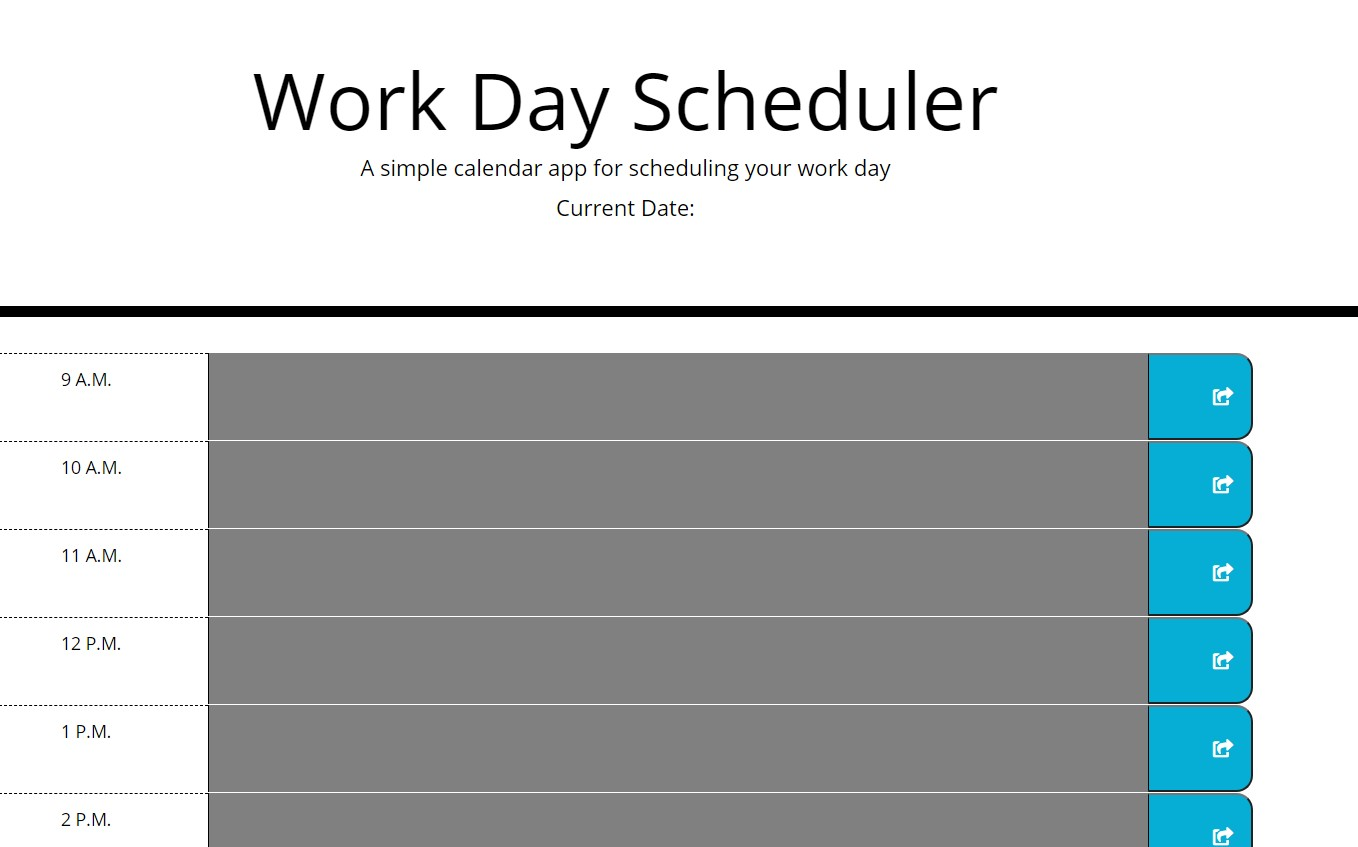
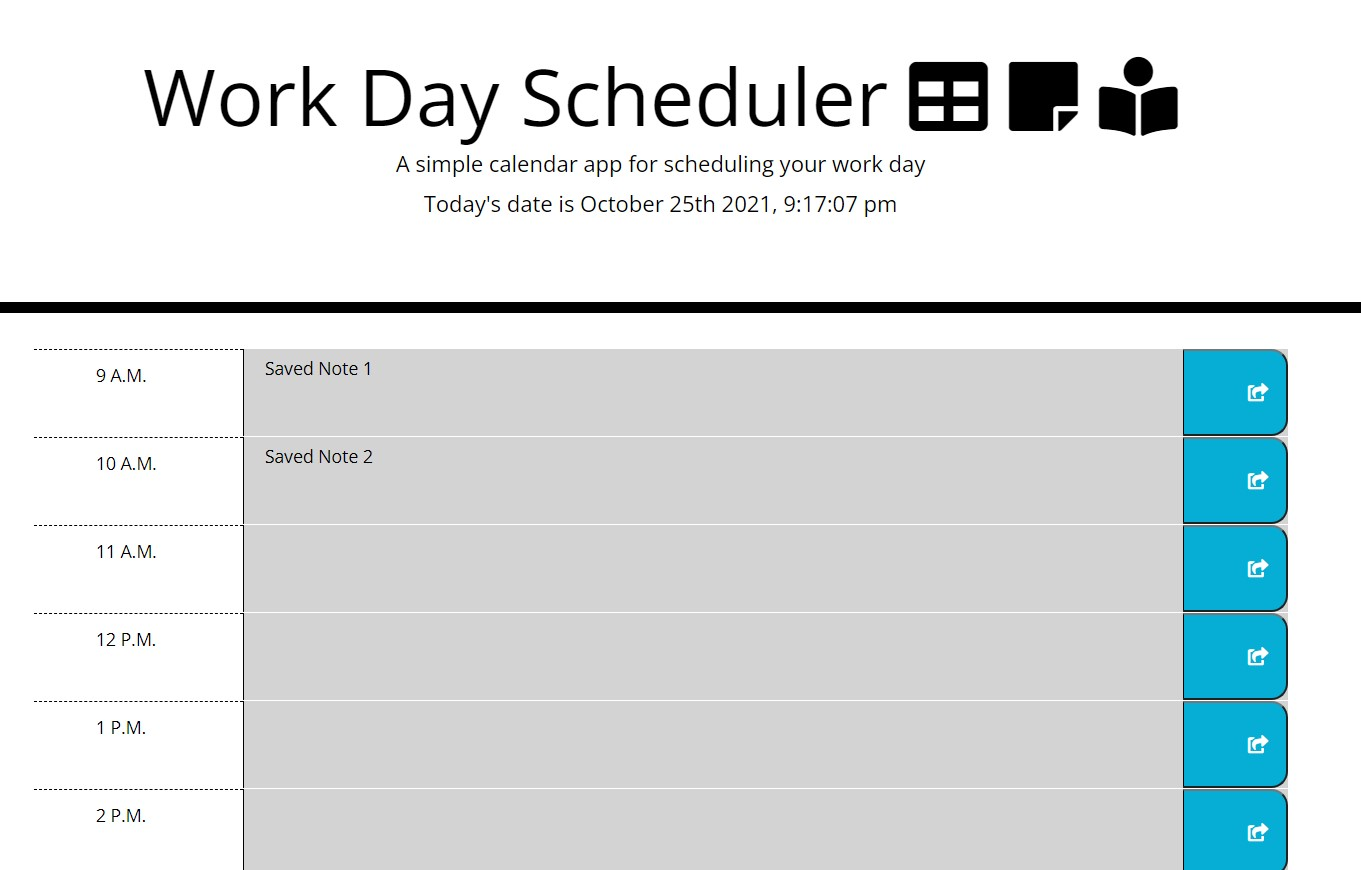
update screenshot and index.html

diff --git a/index.html b/index.html
@@ -24,16 +24,18 @@
 
   <body>
     <header class="jumbotron">
-      <h1 class="display-3">Work Day Scheduler</h1>
+      <h1 class="display-3">Work Day Scheduler <i class="fas fa-table"></i> <i class="fas fa-sticky-note"></i> <i class="fas fa-book-reader"></i></h1>
       <p class="lead">A simple calendar app for scheduling your work day</p>
+      
+
       <p id="currentDay" class="lead">Current Date:</p>
     </header>
     <div class="container">
 
       <!-- Timeblocks go here -->
     
-    <section class= "hourblock">
-      <div id = "9" class = "row">
+    
+      <div id = "9" class = "row hourblock">
         <div class = "col-md-2 hour">
           9 A.M.
         </div>
@@ -42,10 +44,10 @@
           <i class="fas fa-share-square"></i>
         </button>
       </div>
-    </section>
+    
 
-    <section class= "hourblock">
-      <div id = "10" class = "row">
+    
+      <div id = "10" class = "row hourblock">
         <div class = "col-md-2 hour">
           10 A.M.
         </div>
@@ -53,90 +55,81 @@
         <button type="button" class = "col-md-1 saveBtn" id= "save">
           <i class="fas fa-share-square"></i>
         </button>
-          
       </div>
-    </section>
+    
 
-    <section class= "hourblock">
-      <div id = "11" class = "row">
+      <div id = "11" class = "row hourblock">
         <div class = "col-md-2 hour">
           11 A.M.
         </div>
         <textarea class = "col-md-9 description"></textarea>
         <button type="button" class = "col-md-1 saveBtn" id= "save">
           <i class="fas fa-share-square"></i>
-        </button>
-        
+        </button>        
       </div>
-    </section>
 
-    <section class= "hourblock">
-      <div id = "12" class = "row">
+    
+      <div id = "12" class = "row hourblock">
         <div class = "col-md-2 hour ">
           12 P.M.
         </div>
         <textarea class = "col-md-9 description"></textarea>
         <button type="button" class = "col-md-1 saveBtn" id= "save">
           <i class="fas fa-share-square"></i>
-        </button>
-        
+        </button>        
       </div>
-    </section>
+    
 
-    <section class= "hourblock">
-      <div id = "13" class = "row">
+    
+      <div id = "13" class = "row hourblock">
         <div class = "col-md-2 hour">
           1 P.M.
         </div>
         <textarea class = "col-md-9 description"></textarea>
         <button type="button" class = "col-md-1 saveBtn" id= "save">
           <i class="fas fa-share-square"></i>
-        </button>
-        
+        </button>       
       </div>
-    </section>
+    
 
-    <section class= "hourblock">
-      <div id = "14" class = "row">
+    
+      <div id = "14" class = "row hourblock">
         <div class = "col-md-2 hour">
           2 P.M.
         </div>
         <textarea class = "col-md-9 description"></textarea>
         <button type="button" class = "col-md-1 saveBtn" id= "save">
           <i class="fas fa-share-square"></i>
-        </button>
-        
+        </button>        
       </div>
-    </section>
+    
 
-    <section class= "hourblock">
-      <div id = "15" class = "row">
+    
+      <div id = "15" class = "row hourblock">
         <div class = "col-md-2 hour">
           3 P.M.
         </div>
         <textarea class = "col-md-9 description"></textarea>
         <button type="button" class = "col-md-1 saveBtn" id= "save">
           <i class="fas fa-share-square"></i>
-        </button>
-        
+        </button>       
       </div>
-    </section>
+    
 
-    <section class= "hourblock">
-      <div id = "16" class = "row">
+    
+      <div id = "16" class = "row hourblock">
         <div class = "col-md-2 hour">
           4 P.M.
         </div>
         <textarea class = "col-md-9 description"></textarea>
         <button type="button" class = "col-md-1 saveBtn" id= "save">
           <i class="fas fa-share-square"></i>
-        </button>
-        
+        </button>        
       </div>
-    </section>
+    
 
-    <section class= "hourblock">
-      <div id = "17" class = "row">
+    
+      <div id = "17" class = "row hourblock">
         <div class = "col-md-2 hour">
           5 P.M.
         </div>
@@ -144,9 +137,8 @@
         <button type="button" class = "col-md-1 saveBtn" id= "save">
           <i class="fas fa-share-square"></i>
         </button>
-        
       </div>
-    </section>
+    
 
 
 

diff --git a/assets/css/style.css b/assets/css/style.css
@@ -23,8 +23,7 @@ textarea{
 
 .description{
   white-space: pre-wrap;
-  background-color: grey;
-}
+ }
 
 .time-block{
   text-align: center;
@@ -44,7 +43,7 @@ textarea{
 }
 
 .past {
-  background-color: #d3d3d3;
+  background-color: #d3d3d3; 
   color: white;
 }
 
